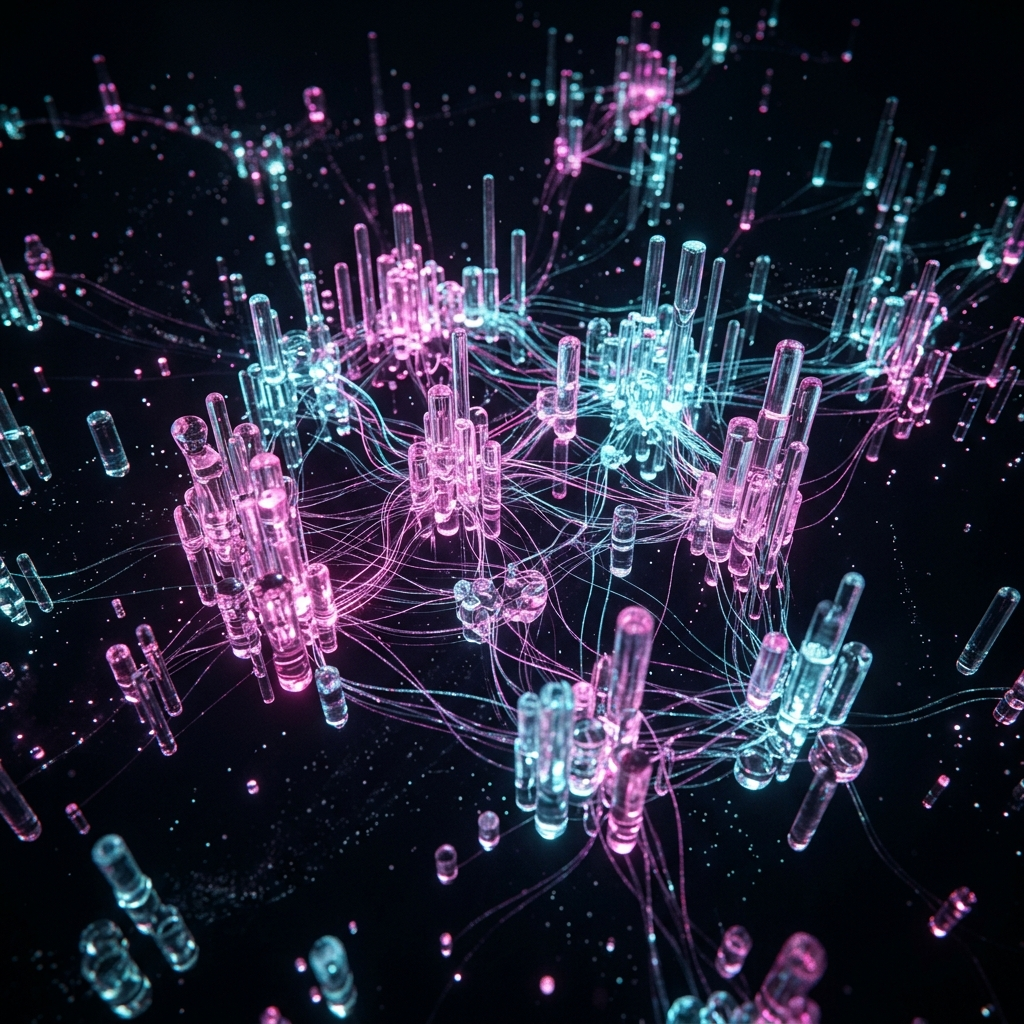
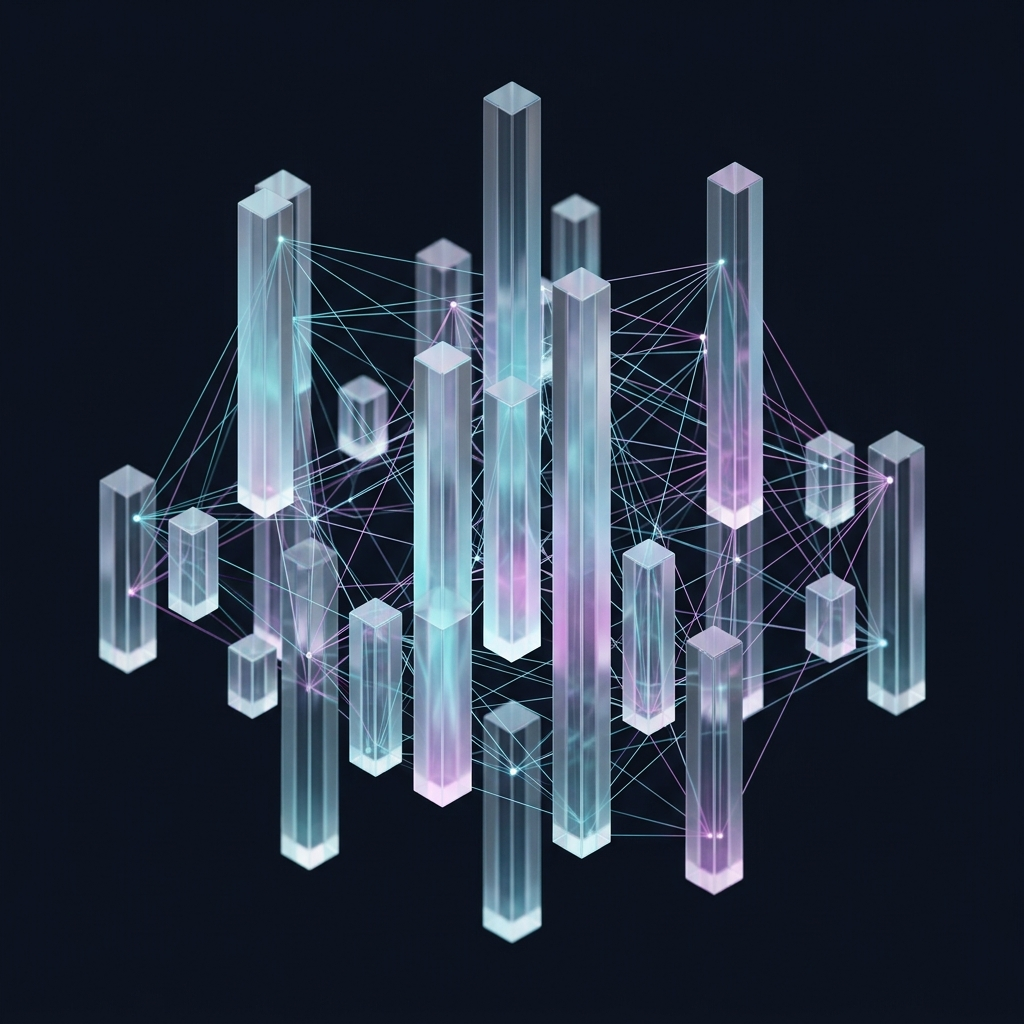
style: update platform visuals with clean isometric 3D glass pillars matching new brand direction

diff --git a/src/app/platform/page.tsx b/src/app/platform/page.tsx
@@ -122,8 +122,8 @@ export default function PlatformPage() {
                     </div>
                     
                     <div className="bg-[var(--color-levl-panel)] border border-[var(--color-levl-panel-border)] p-8 md:p-12 rounded-3xl backdrop-blur-xl relative overflow-hidden shadow-2xl group">
-                        <div className="absolute inset-0 bg-[url('/images/platform-visual-2.png')] bg-cover bg-center opacity-30 group-hover:opacity-50 transition-opacity duration-700 pointer-events-none mix-blend-screen" />
-                        <div className="absolute inset-0 bg-gradient-to-t from-[var(--color-levl-panel)] via-[var(--color-levl-panel)]/90 to-black/20 pointer-events-none" />
+                        <div className="absolute inset-y-0 right-0 w-1/2 bg-[url('/images/platform-visual-2.png')] bg-contain bg-no-repeat bg-center opacity-80 group-hover:opacity-100 group-hover:scale-105 transition-all duration-700 pointer-events-none mix-blend-screen" />
+                        <div className="absolute inset-0 bg-gradient-to-r from-[var(--color-levl-panel)] via-[var(--color-levl-panel)]/90 to-transparent pointer-events-none" />
                         
                         <div className="relative z-10">
                             <p className="text-2xl text-white font-medium mb-8 leading-relaxed">
@@ -168,8 +168,8 @@ export default function PlatformPage() {
 
                     {/* Longevity Graph */}
                     <div className="md:col-span-2 bg-[var(--color-levl-panel)] border border-[var(--color-levl-panel-border)] rounded-3xl backdrop-blur-xl relative overflow-hidden group">
-                        <div className="absolute inset-0 bg-[url('/images/platform-visual.png')] bg-cover bg-center opacity-40 group-hover:opacity-60 transition-opacity duration-700 pointer-events-none mix-blend-screen" />
-                        <div className="absolute inset-0 bg-gradient-to-t from-[var(--color-levl-panel)] via-[var(--color-levl-panel)]/80 to-transparent pointer-events-none" />
+                        <div className="absolute inset-0 bg-[url('/images/platform-visual.png')] bg-contain bg-no-repeat bg-right-bottom opacity-80 group-hover:opacity-100 group-hover:scale-105 transition-all duration-700 pointer-events-none mix-blend-screen translate-x-12 translate-y-8" />
+                        <div className="absolute inset-0 bg-gradient-to-t from-[var(--color-levl-panel)] via-[var(--color-levl-panel)]/50 to-transparent pointer-events-none" />
                         
                         <div className="relative z-10 p-8 h-full flex flex-col justify-end min-h-[300px]">
                             <div className="w-12 h-12 rounded-xl bg-white/5 border border-white/10 flex items-center justify-center mb-6 backdrop-blur-md">
